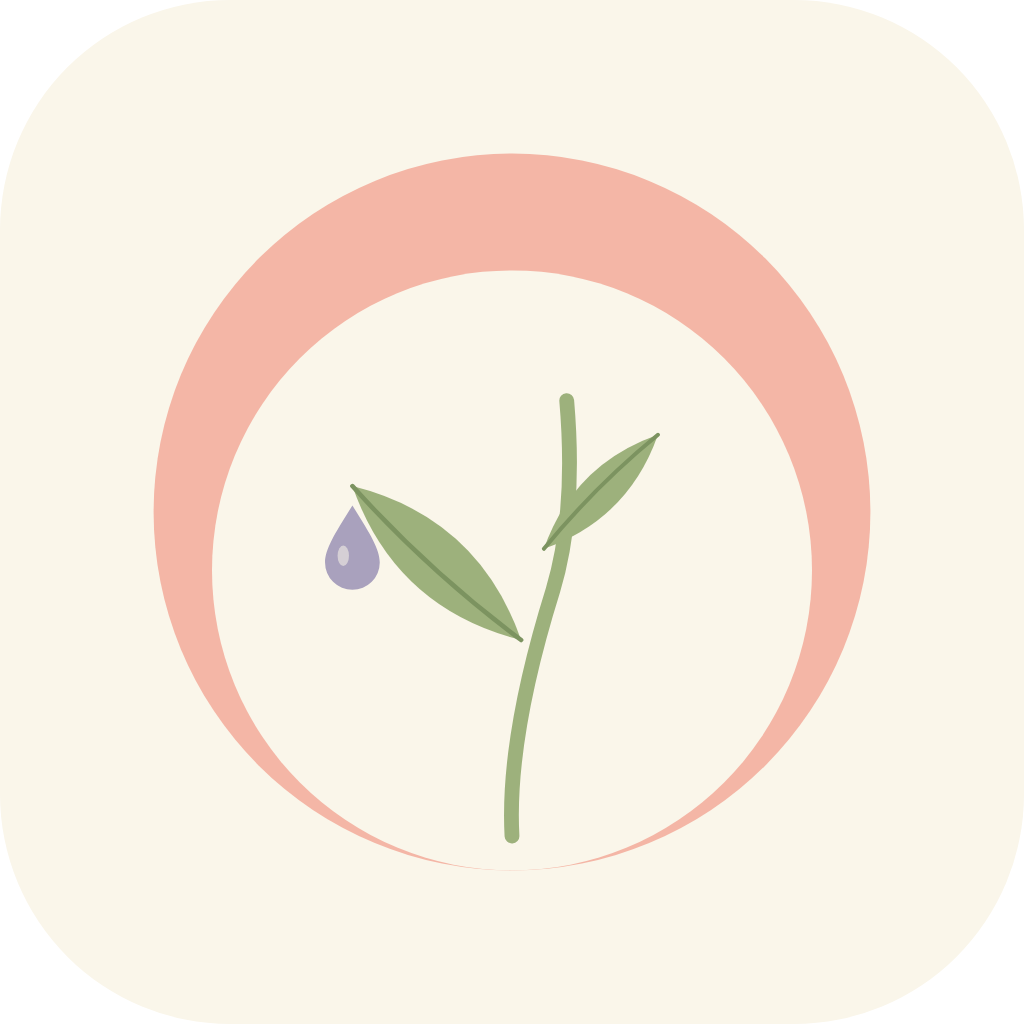
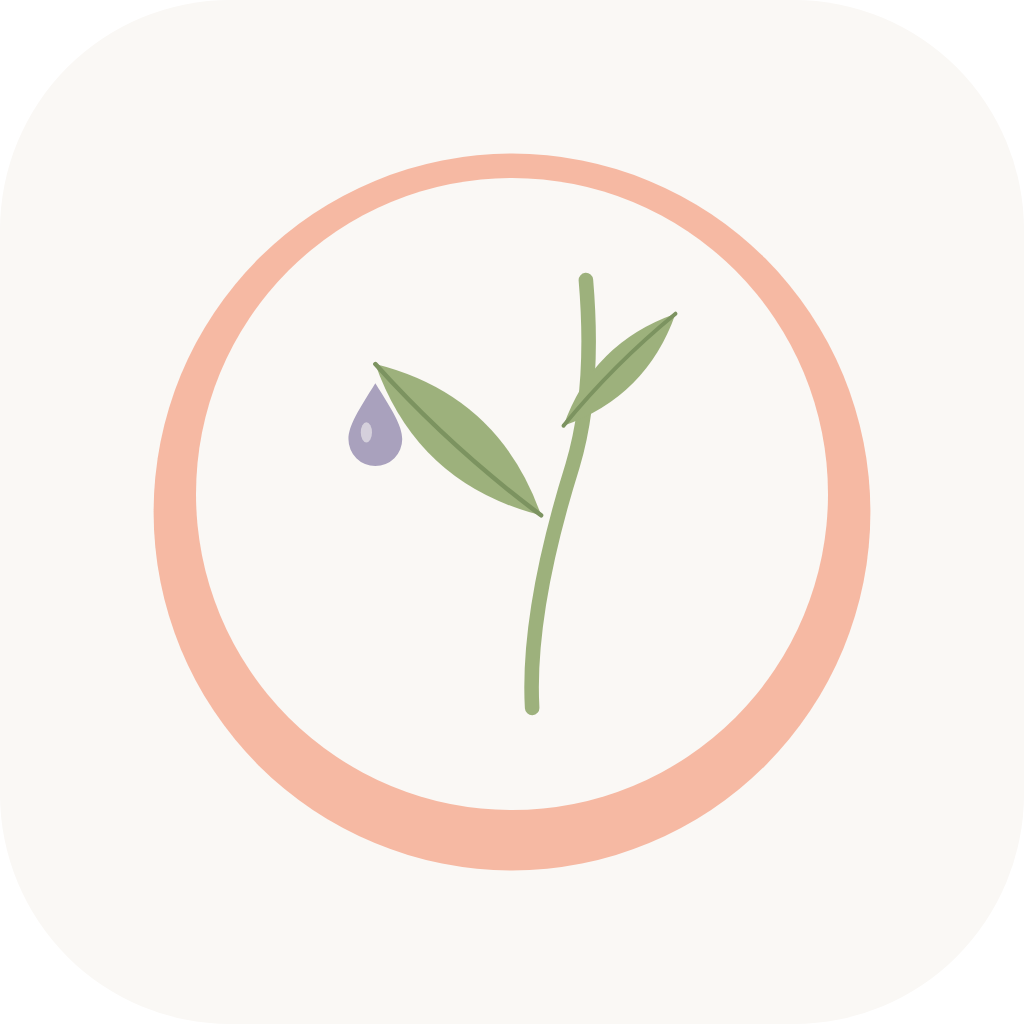
Icone: circulo marfim sobe e deixa uma faixa pessego por baixo
O defeito: no icone anterior o circulo marfim interno encostava na base do
circulo pessego, e o arco aparecia em cima. O pedido era o contrario: o circulo
interno um pouco mais acima, sem encostar na base, deixando uma faixa de
pessego por baixo.

assets/icon.png (1024 x 1024, PNG, cantos arredondados transparentes): fundo e
circulo interno com a MESMA cor #FAF8F5, circulo pessego #F6B9A3 com 70% da
largura, circulo interno 18 px acima do centro (faixa de pessego de ~60 px por
baixo e ~24 px em cima). O galhinho verde musgo, as duas folhas e a gotinha
lavanda agora sao centralizados pela caixa medida da planta, dentro do circulo
marfim. Os quatro PNGs de icones/ e o icone.svg foram refeitos do mesmo
desenho. Service worker enseada-v13.

Testes: Node puro, todos passam (3 novos, lendo os pixels do PNG sem
biblioteca: cores de fundo, arco e circulo interno, faixa mais grossa embaixo
que em cima, 70% de largura). Prova de mutacao: o PNG antigo (circulo encostado
na base) fez 3 testes acusarem. Conferido a olho no PNG.

Claude-Session: https://claude.ai/code/session_01EaVEPczKGoqBHcJrqdHdQS

Changed region(s): [[0.1875, 0.1562, 0.8125, 0.875], [0.7812, 0.5938, 0.8125, 0.625], [0.1875, 0.5938, 0.2188, 0.625]]

diff --git a/teste/icone.test.js b/teste/icone.test.js
@@ -16,7 +16,46 @@ function fim(nomeDoTeste) {
   process.exit(falhas.length > 0 ? 1 : 0);
 }
 const fs = require("node:fs");
+const zlib = require("node:zlib");
 const manifest = JSON.parse(fs.readFileSync("manifest.json", "utf8"));
+
+/* Le os pixels de um PNG RGBA de 8 bits sem entrelacamento, so com o Node. */
+function lerPng(caminho) {
+  const b = fs.readFileSync(caminho);
+  const largura = b.readUInt32BE(16), altura = b.readUInt32BE(20);
+  assert.strictEqual(b[24], 8); assert.strictEqual(b[25], 6); assert.strictEqual(b[28], 0);
+  let pos = 8; const dados = [];
+  while (pos < b.length) {
+    const tam = b.readUInt32BE(pos), tipo = b.slice(pos + 4, pos + 8).toString();
+    if (tipo === "IDAT") { dados.push(b.slice(pos + 8, pos + 8 + tam)); }
+    pos += 12 + tam;
+  }
+  const bruto = zlib.inflateSync(Buffer.concat(dados));
+  const linha = largura * 4, px = Buffer.alloc(linha * altura);
+  for (let y = 0; y < altura; y++) {
+    const f = bruto[y * (linha + 1)];
+    for (let x = 0; x < linha; x++) {
+      const v = bruto[y * (linha + 1) + 1 + x];
+      const a = x >= 4 ? px[y * linha + x - 4] : 0;
+      const c = y > 0 ? px[(y - 1) * linha + x] : 0;
+      const d = (x >= 4 && y > 0) ? px[(y - 1) * linha + x - 4] : 0;
+      let r = v;
+      if (f === 1) { r = v + a; }
+      else if (f === 2) { r = v + c; }
+      else if (f === 3) { r = v + Math.floor((a + c) / 2); }
+      else if (f === 4) {
+        const pp = a + c - d, pa = Math.abs(pp - a), pb = Math.abs(pp - c), pc = Math.abs(pp - d);
+        r = v + (pa <= pb && pa <= pc ? a : (pb <= pc ? c : d));
+      }
+      px[y * linha + x] = r & 255;
+    }
+  }
+  return function (x, y) {
+    const i = (y * largura + x) * 4;
+    return [px[i], px[i + 1], px[i + 2], px[i + 3]];
+  };
+}
+function hex(r) { return "#" + r.slice(0, 3).map(function (n) { return n.toString(16).padStart(2, "0"); }).join("").toUpperCase(); }
 
 function tamanhoDoPng(caminho) {
   const b = fs.readFileSync(caminho);
@@ -49,6 +88,40 @@ teste("o service worker guarda o icone novo", function () {
 teste("o PNG tem canal de transparencia (cantos arredondados de verdade)", function () {
   const b = fs.readFileSync("assets/icon.png");
   assert.strictEqual(b[25], 6, "tipo de cor deveria ser RGBA");
+});
+
+teste("as camadas do desenho: fundo marfim, arco pêssego por baixo, círculo interno marfim igual ao fundo", function () {
+  const ler = lerPng("assets/icon.png");
+  assert.strictEqual(ler(2, 2)[3], 0, "canto deveria ser transparente (arredondado)");
+  assert.strictEqual(hex(ler(512, 8)), "#FAF8F5", "fundo");
+  assert.strictEqual(ler(512, 8)[3], 255);
+  const marfimFundo = hex(ler(60, 512));
+  assert.strictEqual(marfimFundo, "#FAF8F5");
+  assert.strictEqual(hex(ler(512, 165)), "#F6B9A3", "arco pessego no alto");
+  assert.strictEqual(hex(ler(300, 494)), marfimFundo, "circulo interno com a mesma cor do fundo");
+  assert.strictEqual(hex(ler(512, 840)), "#F6B9A3", "faixa pessego por baixo");
+  assert.strictEqual(hex(ler(512, 890)), marfimFundo, "fora do circulo pessego");
+});
+
+teste("o circulo marfim NÃO encosta na base: a faixa pêssego é mais grossa embaixo que em cima", function () {
+  const ler = lerPng("assets/icon.png");
+  function faixa(passo, de) {
+    let n = 0;
+    for (let y = de; y > 0 && y < 1024; y += passo) {
+      if (hex(ler(512, y)) === "#F6B9A3") { n++; } else if (n > 0) { break; }
+    }
+    return n;
+  }
+  const alto = faixa(1, 120), baixo = faixa(-1, 900);
+  assert.ok(baixo > 40 && baixo > alto + 15, "alto " + alto + ", baixo " + baixo);
+});
+
+teste("o círculo pêssego ocupa cerca de 70% da largura do ícone", function () {
+  const ler = lerPng("assets/icon.png");
+  let esq = -1, dir = -1;
+  for (let x = 0; x < 1024; x++) { if (hex(ler(x, 512)) === "#F6B9A3") { if (esq < 0) { esq = x; } dir = x; } }
+  const razao = (dir - esq + 1) / 1024;
+  assert.ok(razao > 0.68 && razao < 0.72, "razao " + razao);
 });
 
 fim("icone");

diff --git a/service-worker.js b/service-worker.js
@@ -8,7 +8,7 @@
 
    Trocar VERSAO a cada publicação faz o aparelho buscar os arquivos novos. */
 
-var VERSAO = "enseada-v12";
+var VERSAO = "enseada-v13";
 
 var ARQUIVOS = [
   "./",
